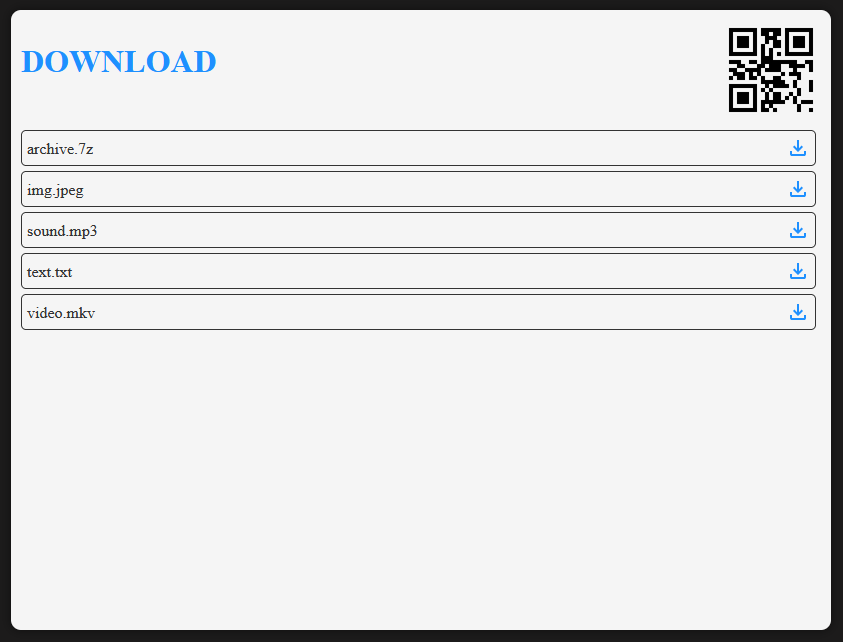
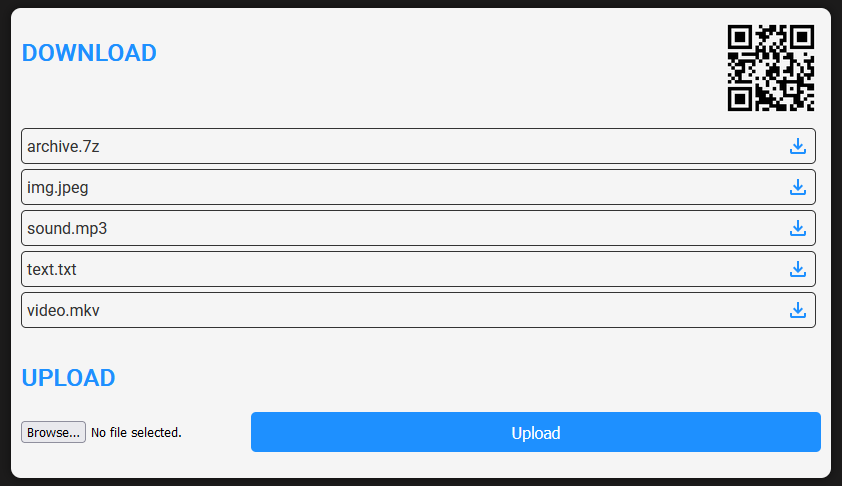
update Readme.md

diff --git a/README.md b/README.md
@@ -44,5 +44,7 @@
 Этот проект лицензирован под MIT License. Пожалуйста, смотрите файл LICENSE для получения дополнительной информации.
 
 ## TODO
-- [ ] **Добавить возможность загрузки**: Чтобы сделать полноценный обмен в обе стороны.
+- [x] **Добавить возможность загрузки**: Чтобы сделать полноценный обмен в обе стороны.
 - [ ] **Авторизация**: Для возможности поделиться ссылкой на файл (при условии, что сервис будет развернут в сети)
+- [ ] **Массовая обработка файлов**: Для возможности выбрать несколько файлов скачивания\загрузки
+- [ ] **Индикация процесса загрузки\успеха загрузки**: При работе с большими файлами, а также для уведомления об успешной загрузке на сервер
